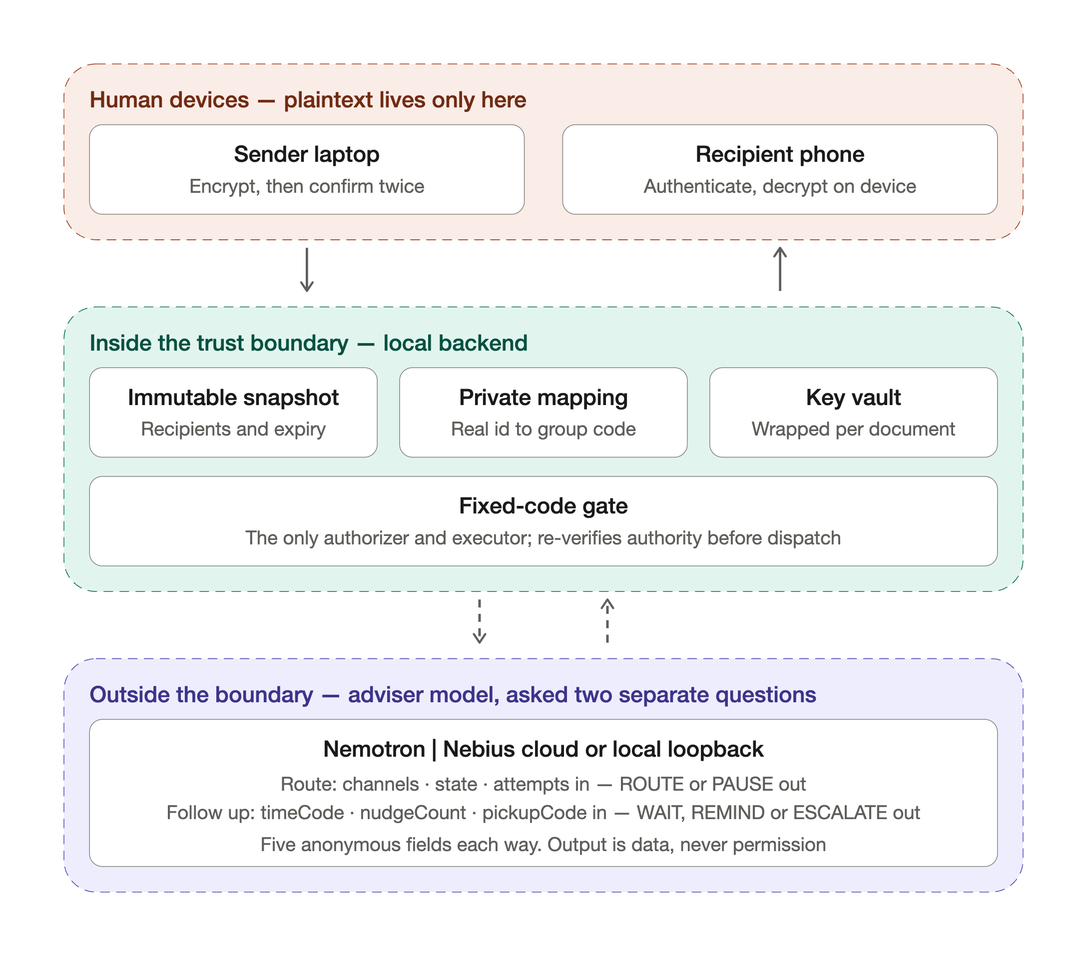
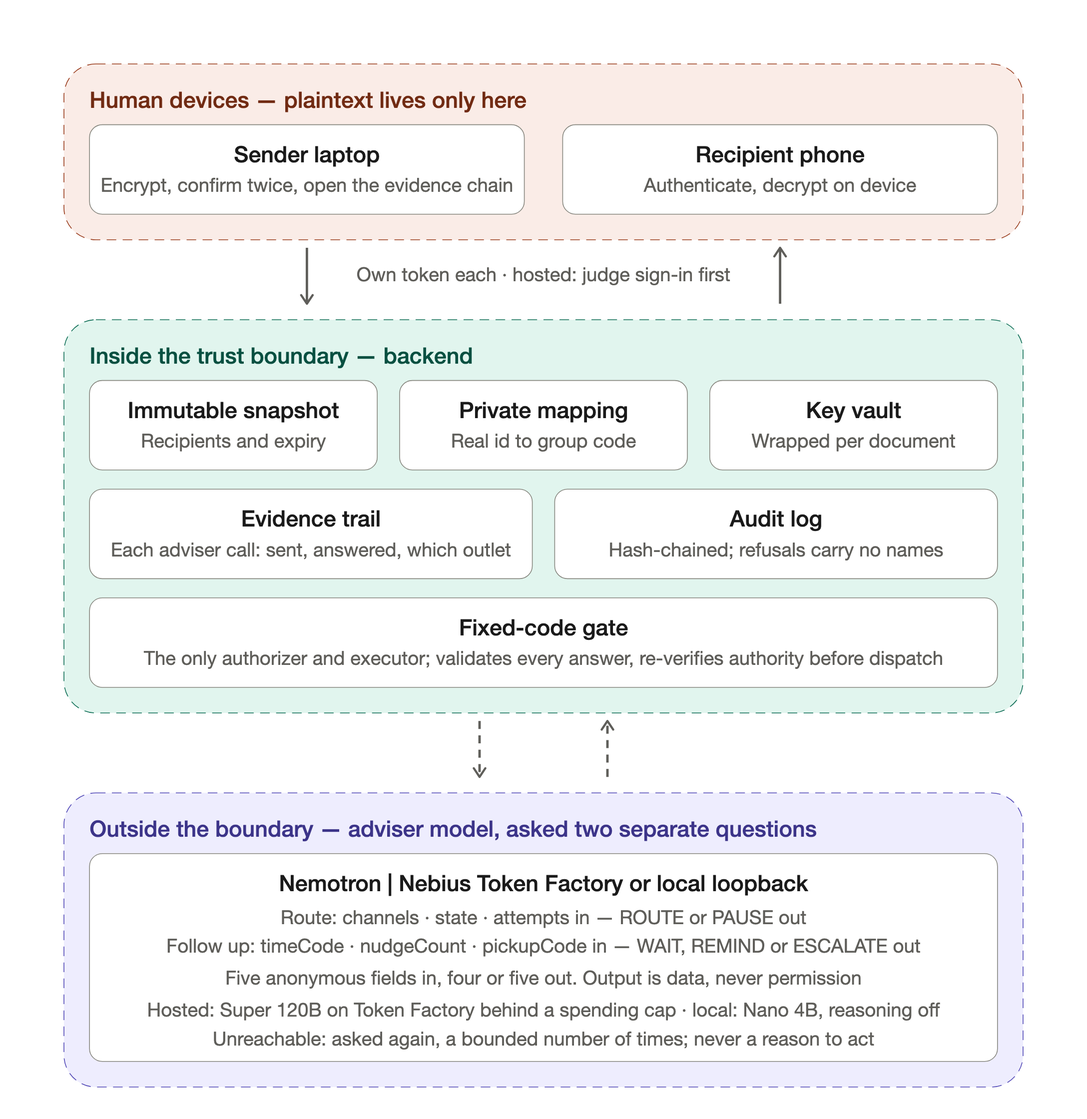
docs: redraw the architecture from the code and record every change of 09-24/25
- sequence (21 steps) and trust-boundary diagrams redrawn: answer validation, bounded retries,
  evidence trail and chain, audit log, per-party tokens, judge sign-in, spending cap
- README architecture, threat model (en/zh), delivery architecture, workflow states and
  deployment call bounds brought up to date
- docs/agent/change-record-2026-09-24-25.md: every commit of the two days, checked line by line
  against the diffs by an independent audit; manifest now 117 entries

diff --git a/docs/agent/change-record-2026-09-24-25.md b/docs/agent/change-record-2026-09-24-25.md
@@ -1,0 +1,145 @@
+# Change Record, 2026-09-24 to 2026-09-25
+
+Every change made in these two days, in commit order, with what changed, why, and how it was
+checked. Times are Taipei (UTC+8). Commit hashes are this repository's; `git show <hash>` gives the
+exact lines. Numbers quoted here come from logged runs in the private decision log, not from memory.
+
+## Summary
+
+| Area | Commits | What a reader sees |
+| --- | --- | --- |
+| Hosted demo | 300fc5e, 6b91516, 797fafa, 0deba86, 3933ba0 | Judge sign-in, a $20 Token Factory cap, a restart that no longer crash-loops |
+| Which outlet answered | dc8848e, e1ee492 | The audit page names Token Factory, the local outlet or the demo; a refused answer is ADVICE_INVALID |
+| Evidence chain and badges | cf1a0ac, 0405e35 | The sender can open what each adviser call was given and answered; identity and access are shown apart |
+| Local outlet speed | 0b05fee, 6477e0e | Nemotron Nano back to about 2.3 to 2.7 seconds per call |
+| Adviser behaviour | b655193, 478e34e | An unreachable adviser is asked again before a delivery pauses; nobody is chased once all collected |
+| Documentation | 478e34e, and the commit that adds this record | Two architecture diagrams redrawn and the state diagram given its retry loop; stage descriptions brought up to date |
+
+## 2026-09-24
+
+**300fc5e 01:13 — hosted demo behind a sign-in and a spending cap.** When `REQUIRE_DEMO_GATE=true`,
+`demo-gate.js` puts a judge sign-in (HMAC session cookie) in front of every page and API route except
+the sign-in page and its script, `styles.css`, `/api/judge-login` and `/api/health`.
+`nebius-budget.js` keeps a ledger that reserves the worst-case cost of each Token Factory call before
+it is sent and refuses a call that would pass the cap; a budget configured without prices counts as
+spent rather than unlimited. When the budget is spent, decisions fall back to the synthetic adviser
+rather than pausing every delivery. The hosted start script accepts a registry of token hashes only
+(`HOSTED_REGISTRY_B64`), and `setup-local.mjs` gains `--until` to set grant expiry. New tests: `scripts/demo-gate.test.mjs`,
+`scripts/nebius-budget.test.mjs`.
+
+**6b91516 02:49 — documents describe the hosted instance as it runs.** README, deployment notes,
+submission gap check and scan evidence updated; claims that predated the hosted instance retired.
+
+**797fafa 04:50 — a refusal is recorded against its task.** A refused request that concerns a known
+task now carries that task id in the audit record, still without the identity of whoever was
+refused.
+
+**0deba86 05:22 — a leftover lock no longer crash-loops a restart.** A restart on the hosted volume
+found the previous container's `server.lock` and exited in a loop. `scripts/hosted-lock.mjs` clears a
+lock only when the recorded process is not a live instance of this server (checked through `/proc`),
+with tests in `scripts/hosted-lock.test.mjs`; the start wrapper also forwards SIGTERM and SIGINT to
+the server so it can release the lock.
+
+**3933ba0 05:27 — the hosted wrapper starts with exec.** `zbpack.json` starts the wrapper with
+`exec`, so it is the container's first process and a stop signal reaches it.
+
+**dc8848e 13:27 — name the outlet, classify a refused answer.** The server logs one line per adviser
+call (kind, outlet, model, milliseconds, action, reason; no alias or identity), and a line beginning
+`ERROR` when a call fails. Audit times follow the interface language. An answer the
+validator refused is recorded as `ADVICE_INVALID`, apart from an adviser that never answered
+(`ADVISER_UNAVAILABLE`).
+
+**cf1a0ac 21:53 — evidence chain; identity and access shown apart.** Each job keeps an advice trail:
+the projection sent, the validated answer or a refusal code (a refusal keeps only the validator's own
+text), at most 20 entries, and the chain reports for each input how many real identifiers it
+contains. `GET /api/tasks/:id/evidence` returns the chain to the task's owner only;
+`GET /api/whoami` returns only `ok` and the identity kind (sender, recipient, coordinator or
+administrator). The audit page gains a five-step
+evidence panel (approved, private mapping, what the model received, what it answered, mapped back
+by fixed code), built with `textContent` only. Pages show `IDENTITY VERIFIED` once a registered
+token is entered and,
+on the recipient page, `ACCESS APPROVED` or `ACCESS DENIED` after a download attempt, so a signed-in
+person who is not on the snapshot is visibly verified and refused.
+
+**e1ee492 22:20 — the runtime label and the evidence layout.** The audit page's runtime label had
+said Token Factory whenever a key was present; it now follows the outlet actually configured.
+Evidence blocks are shown whole instead of inside inner scroll boxes.
+
+**0b05fee 22:47 — local reasoning turned off per request.** Nemotron Nano through LM Studio had gone
+from 3.7–4.1 seconds (measured 2026-09-18) to 7–27 seconds. The request and prompt were unchanged;
+LM Studio had begun applying the JSON schema only after the model's reasoning, so the schema no
+longer suppressed it. The local outlet now sends `reasoning_effort: "none"` and `temperature: 0`.
+Measured on the shipped path: follow-up 30 of 30 and route 10 of 10 accepted, 0 reasoning tokens,
+2.3 to 2.7 seconds per call. `chat_template_kwargs` and a `reasoning: "off"` field left reasoning on;
+without `temperature: 0`, 3 of 18 answers chose a reason the lookup table rules out, and the
+validator refused each. The Token Factory request is unchanged.
+
+## 2026-09-25
+
+**6477e0e 00:59 — wording.** The README says the schema stopped reasoning on the earlier runtime,
+not on the current one.
+
+**0405e35 01:40 — review fixes (architect, mid-level and senior reviews).**
+- Each advice-trail entry names the outlet that answered, from a fixed list; a call refused before
+  any request left is not attributed to an outlet.
+- The sender page's model panel follows the outlet actually configured.
+- The mapped-back step follows the delivery fixed code actually prepared, not the adviser's answer,
+  so a ROUTE later stopped by a reloaded grant is not shown as delivered, and tasks stored before
+  the trail existed still map back.
+- Opening an evidence chain is audited as `EVIDENCE_VIEWED`, at most once per task per minute.
+- A slow response cannot redraw a previous viewer's chain or audit list after the token changes.
+- The real-identifier check ignores case, also covers the owner and grant ids, and finds identifiers
+  of six or more characters embedded in longer strings; approved channel names are compared whole.
+- The runtime label reads "Demo (Token Factory budget spent)" when the cap is reached.
+- The local outlet times out at 10 seconds instead of 30.
+- Selects are sized to their options, so macOS no longer opens a menu across the whole page.
+- Every audit code shown on screen has a Chinese label; duplicate dictionary keys removed.
+- The hosted preflight checks routes that exist.
+
+**b655193 02:03 — adviser behaviour.**
+- A first routing check that never reached the adviser no longer pauses the delivery at once: the job stays
+  `PENDING_CHECK` (the only state for which the routing policy proposes a route) and asks again up
+  to three times, 30 seconds apart, then pauses with `ADVISER_UNAVAILABLE`. A refused answer still
+  pauses at once, and a delivery already in `RETRY_WAIT` still pauses at once. Resume clears the
+  retry count.
+- A delivery everyone has collected is no longer put to the follow-up adviser, whose only permitted
+  answer there was WAIT.
+- Checked end to end on an isolated copy: an unreachable outlet gave three spaced retries and a
+  pause; a resume on Nemotron Nano routed in 3.2 seconds; a fully collected delivery past its
+  follow-up time made no model call, and the same delivery with its receipts removed was asked.
+
+**478e34e 02:30 — second review pass.**
+- Follow-up failures retry three times a minute apart, then move to half of what is left, instead of
+  once a minute until the deadline.
+- Routing and follow-up keep separate halves of the advice trail, so reminders cannot push the
+  routing evidence out.
+- A failure raised before any request left (outlet disabled or misconfigured) is not retried (it was
+  already not attributed to an outlet since 0405e35). Revoking a delivery clears a pending retry.
+- The sender sees "Adviser not answering; asking again n/3" while a retry is pending.
+- A recipient not on the delivery sees no receipt error when signing in, only the refusal at
+  download.
+- A lapsed hosted sign-in is labelled as such rather than as an unverified identity.
+- The hosted preflight checks that each page serves its own script. The state diagram gains the
+  retry loop.
+
+**Documentation (the commit that adds this record).** The sequence and trust-boundary diagrams are
+redrawn from the code: answer validation, bounded retries, the evidence trail and chain, the audit
+log, the per-party token, the judge sign-in and the spending cap. The README's architecture text,
+the threat model (English and Chinese), the approved-delivery architecture, the local workflow
+states and the deployment call bounds are brought up to date, as are the scan evidence, the
+submission gap check, the security gate summary and the export manifest (now 117 entries, adding
+this record).
+
+## Verification At The End Of 2026-09-25
+
+- `npm test`: 115 of 115, thirty consecutive runs (`logs/experiments/runs30_final_20260925.log`,
+  private); `node --test scripts/*.test.mjs`: 227 of 227.
+- Release candidate of 117 files: export-gate pass with no blocking finding, release-boundary 0,
+  localguard CRITICAL and HIGH at the baseline (89 findings: 3 CRITICAL, 15 HIGH, 62 MEDIUM, 9 LOW).
+  The MEDIUM and LOW findings added in
+  this period are heuristic matches — keywords, route maps, cache and shell wording in interface
+  text, diagrams, tests and deployment notes — each recorded in `SECURITY_SCAN_EVIDENCE.md`.
+- English and Chinese pages scanned from the rendered HTML after the last interface change: no
+  untranslated interface text.
+- The recording data was compared by SHA-256 against its baseline after the isolated runs and did
+  not change.

diff --git a/THREAT_MODEL.md b/THREAT_MODEL.md
@@ -1,6 +1,6 @@
 # Threat Model
 
-Review date: 2026-09-08. Revised 2026-09-18: a second adviser was added for delivery follow-up, with its own projection and validator, and group codes were added to the private mapping for the sender and receipt surfaces, and deliberately kept out of every adviser and coordinator projection. Current file workflow, not the legacy passphrase demo. A Traditional Chinese translation follows the English text.
+Review date: 2026-09-08. Revised 2026-09-25 for answer validation, adviser retries, the evidence chain and identity shown apart from access. Revised 2026-09-18: a second adviser was added for delivery follow-up, with its own projection and validator, and group codes were added to the private mapping for the sender and receipt surfaces, and deliberately kept out of every adviser and coordinator projection. Current file workflow, not the legacy passphrase demo. A Traditional Chinese translation follows the English text.
 
 ## Assets
 
@@ -23,6 +23,8 @@ Sender and recipient browsers handle plaintext. The local backend is trusted for
 ## Data Flow
 
 Browser encryption precedes the first confirmation, which stages ciphertext and a wrapped key. Second confirmation approves the unchanged snapshot and creates its unique job. Two advisers exist, each with its own allowlisted five-field projection and its own validator. Routing receives taskAlias, snapshotVersion, channels, state and attempts, and answers ROUTE or PAUSE. Follow-up, which applies only to a REQUIRED_ACK delivery before its deadline, receives taskAlias, snapshotVersion, timeCode, nudgeCount and pickupCode, and answers WAIT, REMIND or ESCALATE. Neither is told anything about recipients — not their identifiers, not their group codes, not how many there are. timeCode is a position within the task's own window rather than a time, and pickupCode is an ordinal, never a count, so neither can be converted back into a clock value or a headcount. A reminder's targets are resolved by fixed code from receipts no adviser sees, and whoever already collected is passed over. Recipient selection is settled by human approval before the adviser is called, and the dispatch gate resolves recipients from the snapshot afterwards. Fixed code reloads authority before dispatch. Recipients authenticate and obtain ciphertext plus a separately validated key ticket, decrypt locally and report receipt.
+
+Revised 2026-09-25. Every adviser answer is validated by fixed code before anything acts on it, and a refused answer's content is never stored: a refused routing answer pauses the job (ADVICE_INVALID); a refused follow-up answer is recorded and reconsidered later. An adviser that cannot be reached decided nothing; a first routing check (PENDING_CHECK) asks again up to three times, 30 seconds apart, then pauses for the sender, while a delivery already in RETRY_WAIT pauses at once; follow-up backs off. Once everyone has collected, follow-up asks nothing. Each adviser call is recorded with the projection sent, the validated answer or refusal code, and which outlet answered; the sender alone can open that evidence chain, and viewing it is audited, at most once per task per minute. A verified identity is shown apart from access: a recipient who is signed in but not on the snapshot is refused at download, and the refusal is audited against the task without naming them.
 
 ## Threats And Controls
 
@@ -73,6 +75,8 @@ See docs/agent/security-gate-summary.md for scoped review; tests are not a produ
 ## 資料流
 
 瀏覽器加密先於第一次確認，該次確認暫存密文與封裝金鑰。第二次確認核准未變動的快照並建立唯一工作。有兩個顧問模型，各自有獨立的五欄投影與獨立的驗證器。路由顧問收到 taskAlias、snapshotVersion、channels、state、attempts，回答 ROUTE 或 PAUSE。催促顧問只用於 REQUIRED_ACK 模式且期限未到的投遞，收到 taskAlias、snapshotVersion、timeCode、nudgeCount、pickupCode，回答 WAIT、REMIND 或 ESCALATE。兩者對收件人都一無所知 —— 不知道識別碼、不知道組別代號、也不知道有幾個人。timeCode 是該任務自身窗口內的相對位置而非時間，pickupCode 是序位而非數量，兩者都無法反推回時鐘值或人數。提醒要送給誰由固定程式從顧問看不到的收據還原，已經領取者直接跳過。收件人由人在呼叫模型之前核准決定，之後由投遞閘門從快照還原。固定程式在派送前重新載入授權。收件人通過驗證後取得密文與另行驗證的金鑰票券，在本地解密並回報收訖。
+
+2026-09-25 修訂：每個顧問回答都先經固定程式驗證才會被採用，被拒的回答內容不落地：路由回答被拒讓工作暫停（ADVICE_INVALID）；催促回答被拒只記錄、稍後再考慮。連不上的顧問等於沒有做決定：首次路由檢查（PENDING_CHECK）以 30 秒間隔最多再問 3 次，仍不可用才暫停交給發文者；已在 RETRY_WAIT 的投遞則直接暫停；催促則逐步拉長間隔。全員都已領取後，催促不再詢問模型。每次顧問呼叫都記錄送出的投影、通過驗證的回答或拒絕碼、以及由哪個出口回答；只有發文者能開啟這條證據鏈，查看會寫入稽核（同一任務每分鐘最多一筆）。身分驗證與存取授權分開顯示：已登入但不在快照名單上的收件人，下載時被拒，拒絕記錄綁定任務、不寫名字。
 
 ## 威脅與控制
 

diff --git a/docs/agent/approved-delivery-architecture.md b/docs/agent/approved-delivery-architecture.md
@@ -75,7 +75,8 @@ flowchart TB
 - AI 不取得文件、摘要、密文、真實名單、私密映射、金鑰或憑據。只能提出既有允許渠道的建議；固定程式重新驗證。
 - 有兩組五欄投影，各自獨立驗證。路由：taskAlias、snapshotVersion、channels、state、attempts，回答 ROUTE 或 PAUSE。催促：taskAlias、snapshotVersion、timeCode、nudgeCount、pickupCode，回答 WAIT、REMIND 或 ESCALATE，僅適用於 REQUIRED_ACK 且期限未到的投遞。
 - timeCode 是該任務自身窗口的相對位置，pickupCode 是序位不是數量，兩者都推不回時鐘值或人數。提醒要送給誰由固定程式從收據還原，顧問看不到，已領取者直接跳過。真實模型須同時明確設定 LOCAL_ONLY=false、COORDINATOR_PROVIDER=nebius 與後端金鑰；僅放金鑰不會啟用。MCP 與模型不是同一元件，MCP 不直接觸發檔案交付。
-- 路由階段模型不可用、輸出無效或建議暫停時，工作進入 PAUSED。催促階段不同：被拒絕只記錄 followupPausedBy 並延後重新考慮，狀態維持 DRY_RUN_PREPARED，不會把工作推進暫停。兩者都不宣稱雲端中斷就自動改接地端模型，權限有效性在模型前後都重查。
+- 路由階段：模型回答先經固定程式驗證；輸出無效（ADVICE_INVALID）或建議暫停（ADVICE_PAUSED）立即 PAUSED。首次路由檢查（PENDING_CHECK）模型連不上時工作維持 PENDING_CHECK，30 秒後再問，最多 3 次（已在 RETRY_WAIT 的投遞連不上則直接 PAUSED），仍不可用才 PAUSED（ADVISER_UNAVAILABLE，可由發文者申請恢復，恢復後重試次數歸零）；請求尚未送出就失敗（出口停用或設定錯誤）不重試。催促階段不同：被拒絕或不可用只記錄 followupPausedBy 並延後重新考慮，前三次各隔一分鐘，之後改為剩餘時間的一半；狀態維持 DRY_RUN_PREPARED，不會把工作推進暫停；全員都已領取就不再詢問模型。兩者都不宣稱雲端中斷就自動改接地端模型，權限有效性在模型前後都重查。
+- 每次顧問呼叫（含失敗）都存入該工作的證據紀錄：送出的投影、通過驗證的回答或拒絕碼、回答來源（Token Factory／本機出口／合成測試）；路由與催促各保留最近 10 筆。發文者（且僅發文者）可在稽核頁開啟證據鏈：核准內容 → 私有映射 → 模型收到什麼 → 回答了什麼 → 固定程式實際派送給誰；查看本身寫入稽核（同一任務每分鐘最多一筆）。
 - 兩次確認屬於同一發文者，不是雙人覆核或 MFA。版本、名單或授權有變動，就不能沿用舊確認。
 - 已核准快照不被覆寫；新審核建立新版本。授權失效或撤銷後，不可用新版本名義繼續舊版本取用。
 - 指定人模式不另加 1／4／24 小時的文件下載限制，但不繞過真實授權期限或撤銷。授權續接需要管理員有效授權與發文者重新確認。

diff --git a/README.md b/README.md
@@ -141,19 +141,26 @@ Version 2026-09-25. Test evidence at this revision: 115 of 115, thirty consecuti
 
 ## Architecture
 
-Three views. Each is drawn from the implementation, not from intent: the state names come from the
-audit allowlist in `audit-boundary.js`, the resumable reason codes from `task-operations.js`, and the
-adviser projection from `file-routing.js`.
+Three views, redrawn on 2026-09-25 against the code as it now stands. Each is drawn from the
+implementation, not from intent: the state names come from the audit allowlist in
+`audit-boundary.js`, the resumable reason codes from `task-operations.js`, the adviser projections
+from `file-routing.js` and `delivery-followup.js`, and the evidence chain from `task-evidence.js`.
 
-**What each party can reach.** Plaintext exists only on the two human devices. The adviser sits
-outside the boundary and is reached by two dashed edges and nothing else.
+**What each party can reach.** Plaintext exists only on the two human devices, and each signs in with
+its own token (the hosted demo adds a judge sign-in in front). Inside the boundary, next to the
+snapshot, mapping and key vault, the backend keeps an evidence trail of every adviser call and a
+hash-chained audit log. The adviser sits outside and is reached by two dashed edges and nothing else;
+the hosted Token Factory outlet is behind a spending cap.
 
 ![Trust boundary](docs/assets/architecture-trust-boundary.svg)
 
-**The order things happen in.** Nineteen messages from browser-side encryption to receipt reporting.
-The adviser appears twice and nowhere else: once at step 5 to choose a route, and again at steps 15
-and 16 when a delivery that must be acknowledged has not been collected. It is absent for the key
-exchange, the decryption, and the reporting in between.
+**The order things happen in.** Twenty-one messages from double confirmation to the evidence chain.
+The adviser appears twice and nowhere else: once at steps 4 and 5 to choose a route, and again at
+steps 15 and 16 while someone on a delivery that must be acknowledged has not collected. Between
+them, fixed code validates the answer, asks again if the adviser could not be reached, and records
+what was sent and what came back. The adviser is absent for the key exchange, the decryption and the
+reporting. At steps 20 and 21 the sender, and only the sender, opens that record; viewing it is
+itself audited, at most once per task per minute.
 
 ![Delivery sequence](docs/assets/architecture-sequence.svg)
 

diff --git a/docs/agent/local-workflow.md b/docs/agent/local-workflow.md
@@ -44,11 +44,11 @@ Default recommendations are labeled `synthetic_fixture`. Real file inference add
 
 New snapshots contain private task/version-scoped UUID aliases for selected recipients and their approved simulated endpoints. The snapshot commitment binds this mapping; confirmation and dispatch verify it. The coordinator sees only the alias projection, never private recipient ids or endpoint ids. Endpoints are explicitly dry-run identifiers, not real email/address resolution. Pre-mapping snapshots fail closed on the new server; create a new reviewed draft instead of silently migrating old approvals. Existing running servers are not automatically upgraded by source edits.
 
-- `PENDING_CHECK`: no delivery attempt recorded.
+- `PENDING_CHECK`: no delivery attempt recorded. If the adviser cannot be reached on this first check the job stays here with reason `ADVISER_UNAVAILABLE` and is asked again up to three times, 30 seconds apart; the sender's page shows the count. (A job already in `RETRY_WAIT` pauses at once instead.)
 - `DRY_RUN_PREPARED`: a local notice was prepared; no email was sent and no remote delivery is claimed. For a delivery that must be acknowledged this is not the end: while its deadline has not passed the job is reconsidered here, and a reminder returns it to this same state rather than moving it on.
 - `RETRY_WAIT`: a configured synthetic transient failure, with exponential backoff.
 - `OUTCOME_UNKNOWN`: ambiguous outcome; no automatic resend.
-- `PAUSED`: attempts exhausted; this processing run stops without automatic resend.
+- `PAUSED`: attempts exhausted, the adviser refused or asked to pause, or it stayed unreachable after its retries; this processing run stops without automatic resend. The reason code decides whether the sender may resume.
 
 The human-owned grant may set `simulatedOutcomes` to `prepared`, `transient`, or `unknown`. Clients cannot select outcomes. File jobs run in the backend timer with bounded retries, and prepared REQUIRED_ACK jobs are reconsidered there on a cadence taken from each task's own window rather than from the clock. Closing the sender page does not stop either pass. The sender display polls status and offers manual receipt refresh. Legacy package tools retain explicit delivery requests for regression compatibility.
 

diff --git a/docs/agent/zeabur-deployment.md b/docs/agent/zeabur-deployment.md
@@ -87,14 +87,19 @@ controls that already exist:
 
 - every page and route that can reach a provider sits behind the judge sign-in and a bearer token
 - staged file tasks are capped at 50 (`507` beyond that)
-- `maxAttempts` is validated to 1–5 per grant, so the routing pass asks at most five times per task
+- `maxAttempts` is validated to 1–5 per grant, so the routing pass asks at most five times per task;
+  an adviser that cannot be reached on the first check adds at most three retries, 30 seconds
+  apart, before the job pauses, and a failure before any request leaves is not retried
 - the follow-up pass asks a bounded number of further times: it applies only to `REQUIRED_ACK`
-  deliveries, stands down at the deadline, and reconsiders at the midpoint of what is left with a
-  floor of an eighth of the window, which is four decision points from approval
+  deliveries that someone has not yet collected, stands down at the deadline, and reconsiders at the
+  midpoint of what is left with a floor of an eighth of the window, which is four decision points
+  from approval; when the adviser keeps failing it retries three times a minute apart and then halves
+  toward the deadline, so failures add a logarithmic number of calls, not one a minute
 - each request carries an abort deadline and a token ceiling, five seconds and 512 hosted
 
-Both callers together are therefore bounded at roughly nine provider calls per task, and the
-50-task cap puts the worst case in the low hundreds, not an open endpoint. The follow-up pass is
+Both callers together therefore stay bounded: about nine provider calls per task when the adviser
+answers (five routing, four follow-up), somewhat more when it keeps failing, and the 50-task cap puts the worst case in the hundreds,
+not an open endpoint. The spending cap stops it outright before that. The follow-up pass is
 counted here because it is a second caller on a schedule `maxAttempts` does not govern.
 
 ## Security Posture Of A Hosted Instance

diff --git a/docs/agent/security-gate-summary.md b/docs/agent/security-gate-summary.md
@@ -61,4 +61,4 @@ The corrected clean candidate passed npm run check and all npm tests (49 at the 
 
 Fresh scanner counts remain separate from these dispositions. The repository has been public since 2026-09-18, and a hosted instance with a judge sign-in has run since 2026-09-24; free judge access no longer depends on organizer clarification. Every push still requires a fresh candidate scan and Git-index review. Historical S8 passes are not current clearance.
 
-The corrected candidate scan (86 files at that time; the manifest is now 116, and the 2026-09-24 counts are in `SUBMISSION_GAP_CHECK.md`) reports AI scanner 0 CRITICAL / 4 HIGH / 63 MEDIUM (export-gate PASS), release-boundary 0 findings, and LocalGuard 2 CRITICAL / 12 HIGH / 40 MEDIUM. The two additional LocalGuard HIGH hits come from the restored language files above. Raw findings are not suppressed; owner exception approval remains pending.
+The corrected candidate scan (86 files at that time; the manifest is now 117, and the latest counts are in `SUBMISSION_GAP_CHECK.md`) reports AI scanner 0 CRITICAL / 4 HIGH / 63 MEDIUM (export-gate PASS), release-boundary 0 findings, and LocalGuard 2 CRITICAL / 12 HIGH / 40 MEDIUM. The two additional LocalGuard HIGH hits come from the restored language files above. Raw findings are not suppressed; owner exception approval remains pending.

diff --git a/SECURITY_SCAN_EVIDENCE.md b/SECURITY_SCAN_EVIDENCE.md
@@ -80,6 +80,17 @@ receipt error on sign-in, only the refusal on download; a lapsed hosted sign-in 
 rather than as an unverified identity. Scanner results unchanged. Tests: 115/115, thirty
 consecutive runs.
 
+The sequence and trust-boundary diagrams were then redrawn from the code, the stage descriptions
+brought up to date, and `docs/agent/change-record-2026-09-24-25.md` added (117 manifest entries).
+Two new export-gate MEDIUM findings are the keyword heuristic matching the words "token" and "sign
+in" in the diagrams' labels (`docs/assets/architecture-sequence.svg`,
+`docs/assets/architecture-trust-boundary.svg`); no credential appears in either file. The change
+record itself adds two keyword MEDIUM findings (it names sign-in, tokens and permissions) and two
+localguard LOW findings at its line 22, which lists the routes the judge sign-in leaves open and
+mentions `styles.css`; it is prose, registers no service worker and exposes no route. Final counts on
+the 117-file candidate: export-gate pass, blocking 0, high 7, medium 94; release-boundary 0;
+localguard 89 (3 CRITICAL, 15 HIGH, 62 MEDIUM, 9 LOW), CRITICAL and HIGH at the baseline.
+
 ## Delivery Follow-Up Addition, 2026-09-18
 
 Scanned candidate: 102 files, the tracked tree plus the delivery follow-up module, its two test

diff --git a/SUBMISSION_GAP_CHECK.md b/SUBMISSION_GAP_CHECK.md
@@ -4,12 +4,12 @@ Updated: 2026-09-24 Asia/Taipei
 
 ## Current Gate Status
 
-Local self-checks against the 116-file candidate built from `public-export-manifest.md`:
+Local self-checks against the 117-file candidate built from `public-export-manifest.md`:
 
 ```text
-export-gate:      pass, blocking 0, P0 0, P1 0, P2 0, critical 0, high 7, medium 89
+export-gate:      pass, blocking 0, P0 0, P1 0, P2 0, critical 0, high 7, medium 94
 release-boundary: PASS, findings 0
-localguard:       87 findings, 3 CRITICAL / 15 HIGH / 62 MEDIUM / 7 LOW
+localguard:       89 findings, 3 CRITICAL / 15 HIGH / 62 MEDIUM / 9 LOW
 npm test:         115 of 115, thirty consecutive runs
 preflight:hosted: 7 of 8, 0 blocking, 1 advisory
 fuzz:             40,000 projections, 2,400 worker ticks, 0 invariant violations (2026-09-18)

diff --git a/public-export-manifest.md b/public-export-manifest.md
@@ -28,6 +28,7 @@ delivery-followup.js
 demo-gate.js
 directory-admin.js
 docs/agent/approved-delivery-architecture.md
+docs/agent/change-record-2026-09-24-25.md
 docs/agent/local-workflow.md
 docs/agent/official-rule-alignment.md
 docs/agent/security-gate-summary.md
